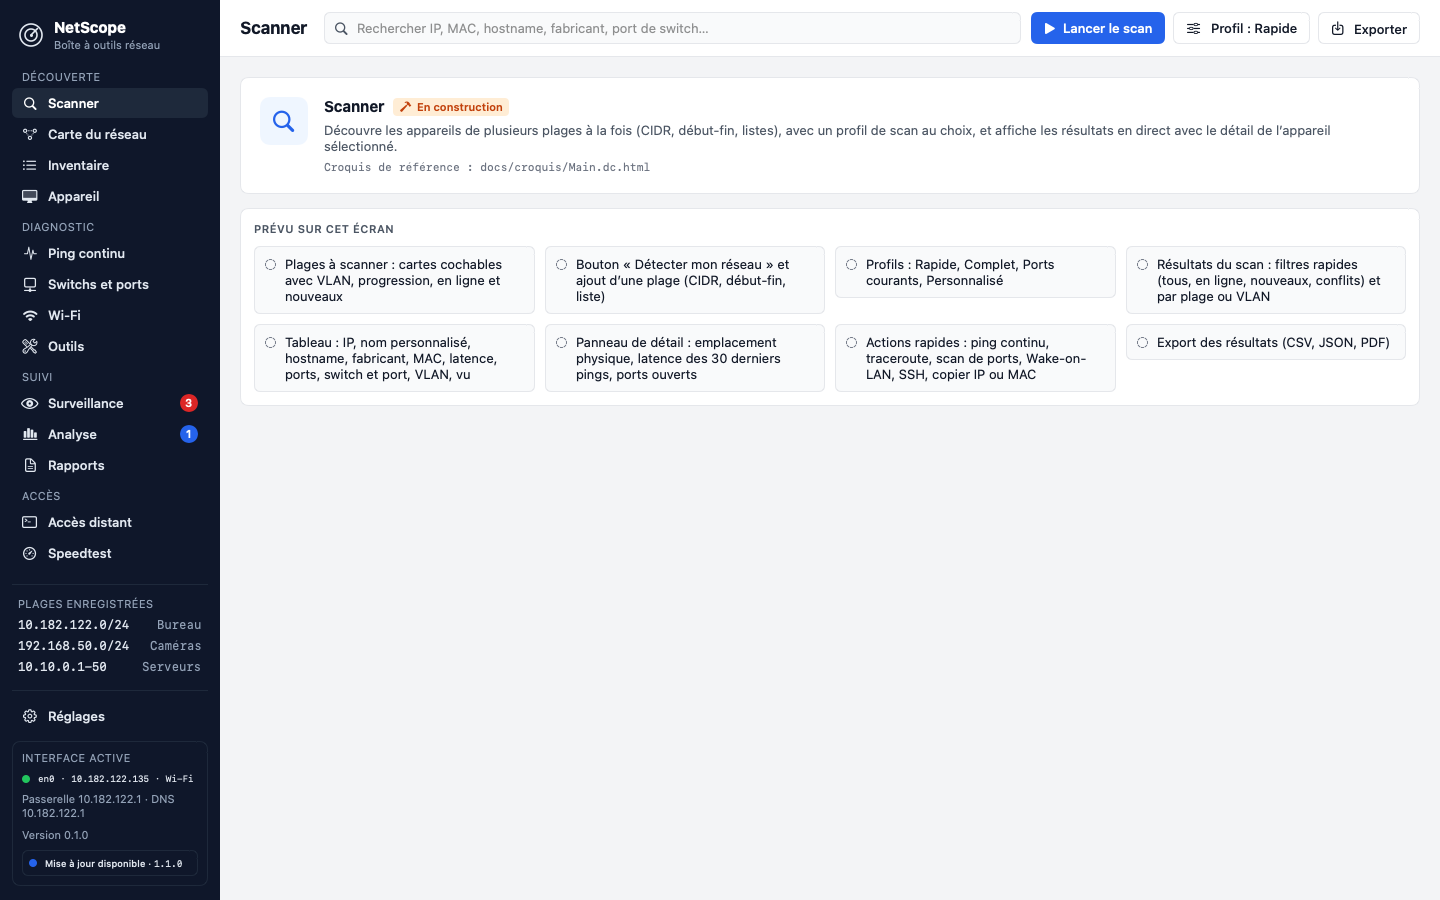
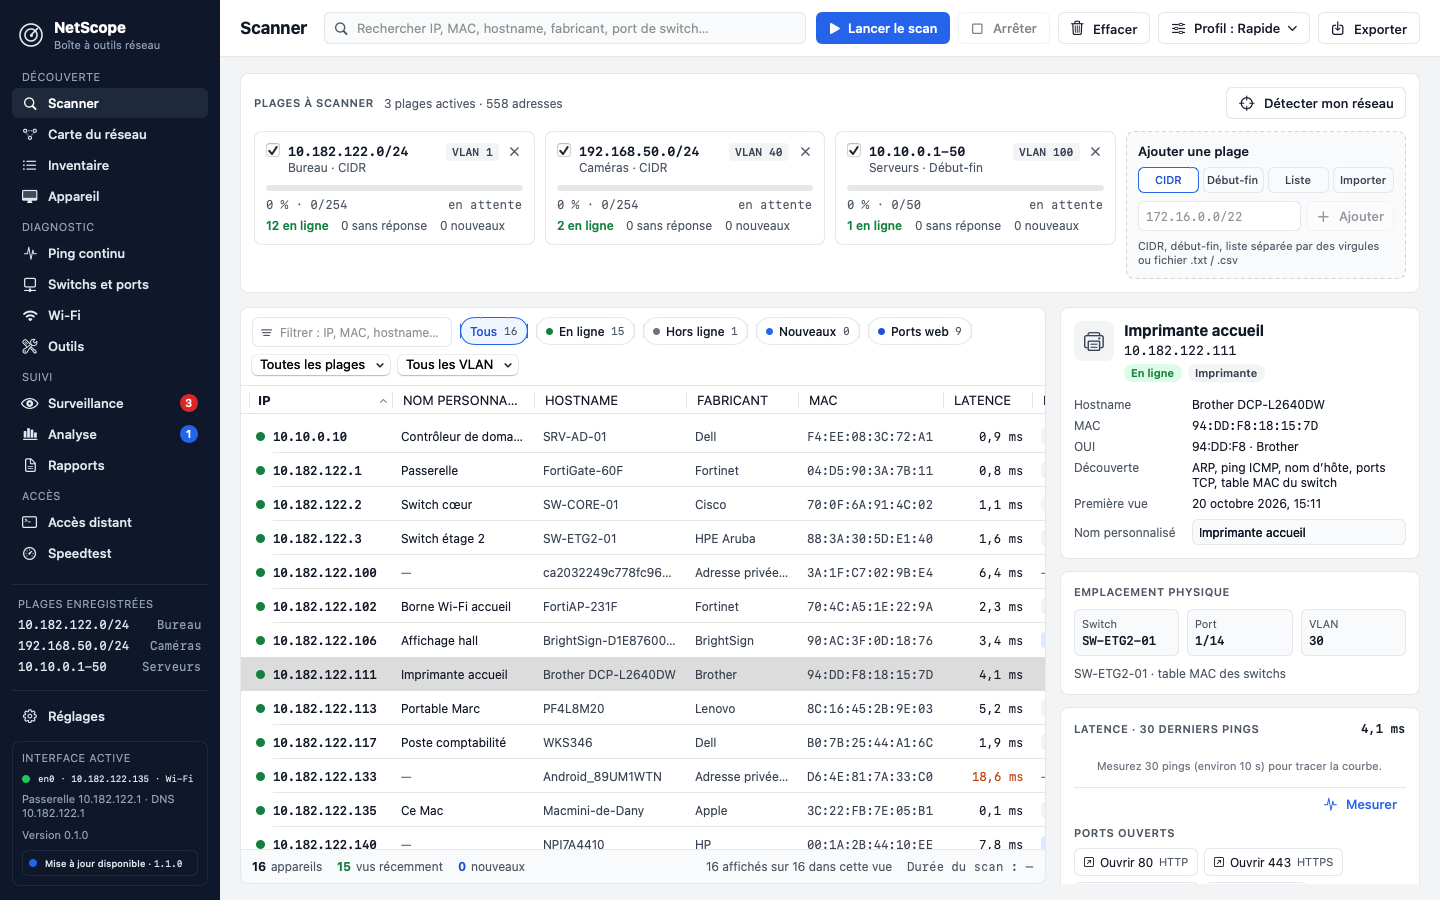
Version 0.1.0
Intègre les sept modules (scanner, ping, outils, réglages et mise à jour,
accès distant et Speedtest, switchs SNMP et Wi-Fi, inventaire et analyse),
branche la vérification des mises à jour au démarrage et la commande de menu,
et met à jour README, CHANGELOG, capture et croquis.

diff --git a/Sources/NetScope/NetScopeApp.swift b/Sources/NetScope/NetScopeApp.swift
@@ -45,10 +45,14 @@ struct NetScopeApp: App {
                 .environmentObject(state)
                 .frame(minWidth: 1100, minHeight: 700)
                 .task {
-                    if !Launcher.isDemo { await state.detectInterface() }
+                    guard !Launcher.isDemo else { return }
+                    await state.detectInterface()
+                    // Vérification des mises à jour (Releases GitHub) selon la fréquence choisie.
+                    await UpdController.shared.applicationDidLaunch(state)
                 }
         }
         .defaultSize(width: 1440, height: 900)
         .windowResizability(.contentMinSize)
+        .commands { UpdCommands(state: state) }
     }
 }

diff --git a/README.md b/README.md
@@ -8,12 +8,36 @@ surveillance, rapports et accès distant, le tout en français.
 
 ## Fonctions
 
-Version 0.1.0 : les fondations. Les écrans existent et affichent ce qu’ils feront ; le moteur
-d’adressage est en place et testé.
+Version 0.1.0 : douze écrans sur quatorze fonctionnent ; Surveillance et Rapports sont encore
+en construction.
 
-- Barre latérale à quatorze écrans : Scanner, Carte du réseau, Inventaire, Appareil, Ping
-  continu, Switchs et ports, Wi-Fi, Outils, Surveillance, Analyse, Rapports, Accès distant,
-  Speedtest et Réglages.
+- **Scanner multi-plages** : plusieurs plages à la fois, ping ICMP sans droits administrateur,
+  table ARP, nom d’hôte (DNS inverse), ports courants, fabricant, type d’appareil deviné ;
+  filtres (en ligne, hors ligne, nouveaux, ports web), tri, panneau de détail, export CSV.
+- **Ping continu** multi-cibles (intervalle, taille de paquet pour le test MTU), statistiques
+  (min, moyenne, max, gigue, perte, P95), graphes, journal des coupures, **traceroute et MTR**.
+- **Switchs et ports** : client SNMP v2c intégré (table MAC BRIDGE-MIB / Q-BRIDGE-MIB, LLDP,
+  interfaces, PoE) pour savoir **sur quel port de quel switch** chaque appareil est branché ;
+  façade du switch dessinée, recherche par IP ou MAC.
+- **Wi-Fi** : connexion actuelle (RSSI, bruit, SNR, canal, débit), analyse des réseaux
+  voisins, graphe des canaux 2,4 / 5 / 6 GHz, recommandations.
+- **Fiche appareil** : réseau, matériel, emplacement physique, ports et services avec
+  bannières, sonde web, notes.
+- **Boîte à outils** : calculateur de sous-réseaux avec découpage, convertisseur MAC/OUI,
+  scan de ports, DNS (A, AAAA, MX, PTR, TXT, NS, CNAME), Whois, Wake-on-LAN.
+- **Inventaire permanent** : tous les appareils jamais vus, champs éditables (local, prise,
+  responsable…), chronologie des changements (IP, port de switch, hors ligne), import et
+  export CSV.
+- **Analyse** : indicateurs, carte d’occupation de la plage, répartition par fabricant et par
+  type, alertes (nouvel appareil, conflit IP…), comparaison de deux scans.
+- **Carte du réseau** construite à partir du scan (passerelle, switchs, groupes d’appareils).
+- **Accès distant** : connexions SSH, Telnet, console série, RDP et VNC enregistrées par site,
+  ouvertes dans Terminal, Windows App ou Partage d’écran ; import depuis le scan.
+- **Speedtest** : débit Internet (multi-flux, latence au repos et en charge, gigue),
+  débit local avec iperf3, historique.
+- **Mise à jour automatique** depuis les Releases GitHub (canal Stable ou Bêta, vérification
+  de la signature avant installation), menu « Rechercher les mises à jour… ».
+- Barre latérale à quatorze écrans, fidèle aux croquis.
 - Interface active affichée en bas de la barre latérale (« en0 · 10.182.122.135 · Wi-Fi »),
   avec la version et une pastille quand une mise à jour est disponible.
 - Recherche globale par IP, MAC, nom, fabricant ou port de switch.
@@ -55,7 +79,7 @@ swift build && ./.build/debug/NetScope --snapshot /tmp/netscope-snap --demo
 swift build && ./.build/debug/NetScopeSelfTest
 ```
 
-Les tests portent sur le moteur (adresses, plages, sous-réseaux, MAC, fabricants, modèles). Ils
+Les tests portent sur le moteur (adresses, plages, sous-réseaux, MAC, fabricants, scan, ping, SNMP, DNS, mise à jour, inventaire, Speedtest, accès distant). Ils
 n’envoient rien sur le réseau : aucun scan, aucune requête, sauf éventuellement vers 127.0.0.1.
 
 ## Organisation

diff --git a/CHANGELOG.md b/CHANGELOG.md
@@ -2,14 +2,28 @@
 
 ## 0.1.0 — 2026-11-03
 
-Fondations de l’application.
+Première version publiée.
 
 ### Ajouté
+- Scanner multi-plages : ping ICMP non privilégié, table ARP, DNS inverse, ports courants,
+  fabricant et type d’appareil ; filtres, tri, panneau de détail, export CSV protégé contre
+  les formules.
+- Ping continu multi-cibles avec statistiques, graphes et journal ; traceroute et MTR.
+- Switchs et ports : client SNMP v2c, table MAC, voisins LLDP, PoE, façade du switch et
+  localisation d’un appareil par IP ou MAC.
+- Analyseur Wi-Fi (CoreWLAN) : connexion actuelle, réseaux voisins, canaux, recommandations.
+- Fiche appareil et boîte à outils : calculateur de sous-réseaux, MAC/OUI, scan de ports,
+  DNS, Whois, Wake-on-LAN, sonde web.
+- Inventaire permanent avec chronologie des changements, Analyse (occupation, répartition,
+  alertes, comparaison de scans) et Carte du réseau.
+- Accès distant (SSH, Telnet, série, RDP, VNC) et Speedtest (Internet et iperf3).
+- Réglages : sites et plages, profils de scan, identifiants SNMP au Trousseau, interface
+  réseau, mise à jour automatique depuis les Releases GitHub.
 - Fenêtre principale (1440 × 900 par défaut, 1100 × 700 au minimum), interface claire.
 - Barre latérale bleu nuit fidèle aux croquis : groupes Découverte, Diagnostic, Suivi et
   Accès, plages enregistrées, Réglages, interface active, version et pastille de mise à jour.
 - Barre d’outils du contenu : titre de l’écran, recherche globale, actions propres à l’écran.
-- Quatorze écrans provisoires (« En construction ») qui décrivent ce qu’ils feront.
+- Écrans provisoires (« En construction ») pour Surveillance et Rapports.
 - Thème (couleurs, polices, rayons, styles de boutons) et composants communs : panneau,
   intertitre, ligne clé-valeur, puce, pastille d’état, étiquette de port, courbe, état vide.
 - Moteur d’adressage : adresses IPv4, plages (CIDR, début-fin, adresse seule, listes, limite de
